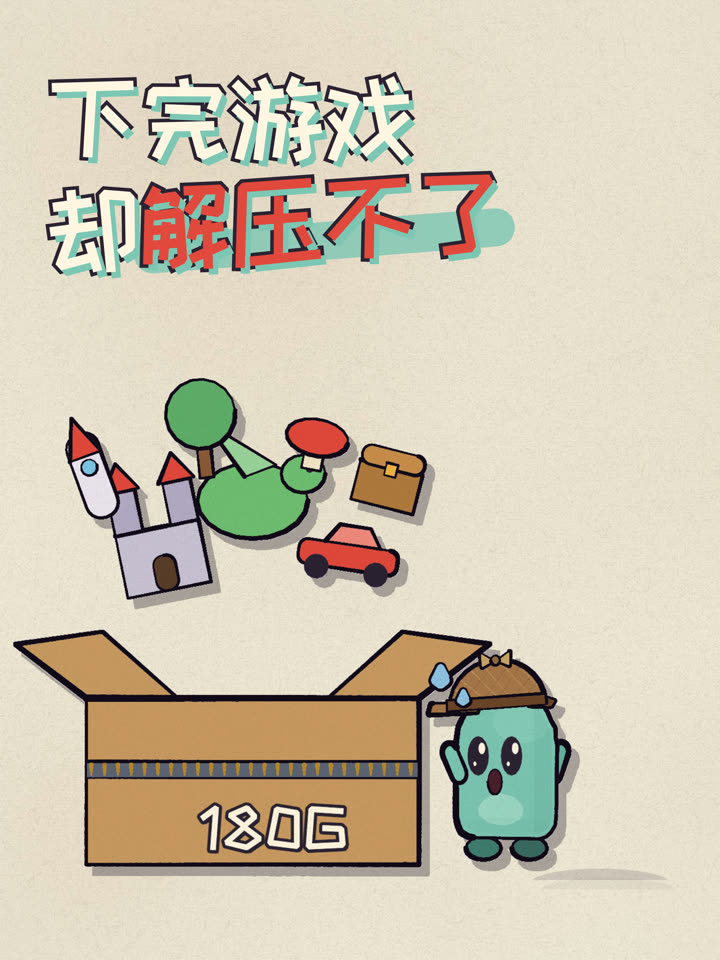
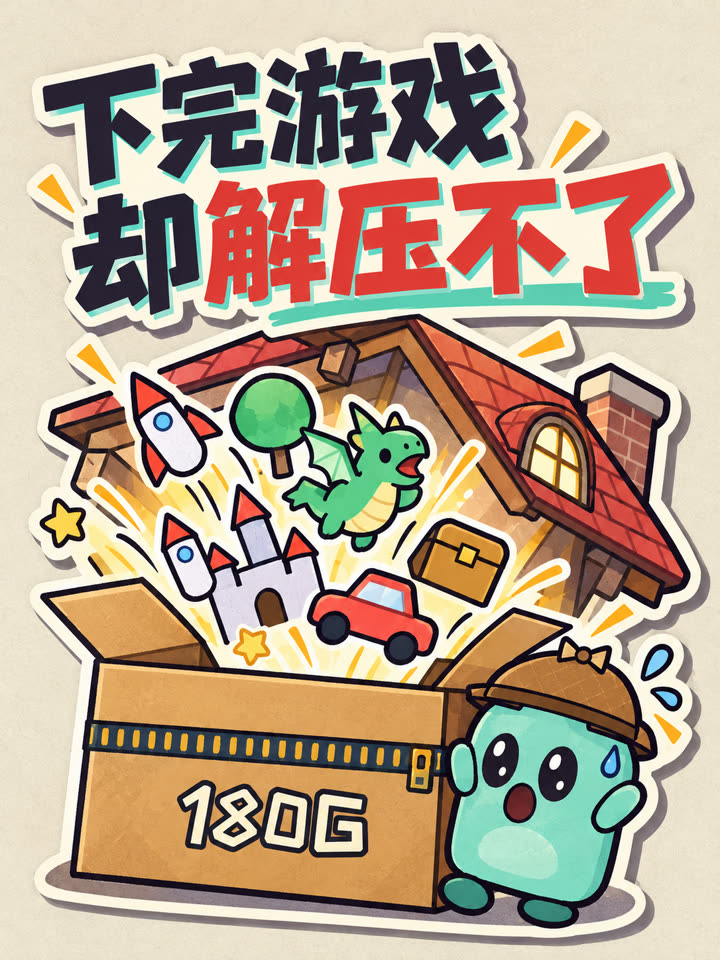
Homepage: imagegen covers, restrained type, less copy

diff --git a/public/style.css b/public/style.css
@@ -42,16 +42,15 @@ button { font: inherit; color: inherit; cursor: pointer; }
 .nav a:hover::after { transform: scaleX(1); }
 
 /* 首屏 */
-.hero { position: relative; max-width: var(--max); margin: 0 auto; padding: clamp(28px, 6vw, 72px) var(--gutter) clamp(36px, 6vw, 72px); }
-.eyebrow { margin: 0 0 clamp(8px, 2vw, 20px); font-size: 12px; color: var(--mute); }
-.hero-title { margin: 0; font: 700 clamp(96px, 22vw, 290px)/.88 var(--display); letter-spacing: -.03em; display: flex; flex-direction: column; align-items: flex-start; }
+.hero { position: relative; max-width: var(--max); margin: 0 auto; padding: clamp(48px, 9vw, 110px) var(--gutter) clamp(48px, 8vw, 96px); }
+.hero-title { margin: 0; font: 700 clamp(44px, 7vw, 84px)/1.05 var(--display); letter-spacing: -.01em; }
 .hero-title span { display: inline-block; }
 .hero-title mark { background: none; color: var(--red); position: relative; display: inline-block; }
-.hero-title mark::after { content: ""; position: absolute; left: -2%; right: -6%; bottom: .02em; height: .1em; background: var(--red); opacity: .25; transform: rotate(-2deg); border-radius: 2px; }
-.hero-row { display: grid; grid-template-columns: minmax(0, 1.1fr) minmax(0, 1fr); gap: 20px clamp(20px, 5vw, 80px); align-items: end; margin-top: clamp(20px, 4vw, 44px); position: relative; z-index: 2; }
-.hero-lede { margin: 0; font: 700 clamp(22px, 3.2vw, 38px)/1.3 var(--display); }
+.hero-title mark::after { content: ""; position: absolute; left: 0; right: 0; bottom: .06em; height: .09em; background: var(--red); opacity: .22; }
+.hero-row { display: flex; flex-wrap: wrap; align-items: center; gap: 16px 28px; margin-top: 18px; position: relative; z-index: 2; }
+.hero-lede { margin: 0; font-size: clamp(16px, 1.6vw, 19px); color: var(--mute); }
 .hero-links { display: flex; flex-wrap: wrap; gap: 10px; list-style: none; margin: 0; padding: 0; }
-.pill { display: inline-flex; align-items: center; gap: 8px; padding: 10px 20px; border: 1.5px solid var(--ink); border-radius: 999px; font-weight: 600; font-size: 15px; transition: background .2s, color .2s, transform .2s; }
+.pill { display: inline-flex; align-items: center; gap: 8px; padding: 7px 16px; border: 1.5px solid var(--ink); border-radius: 999px; font-weight: 600; font-size: 14px; transition: background .2s, color .2s, transform .2s; }
 .pill i { font-style: normal; transition: transform .2s; }
 .pill:hover { background: var(--ink); color: var(--paper); transform: translateY(-2px); }
 .pill:hover i { transform: translate(2px, -2px); }
@@ -59,34 +58,25 @@ button { font: inherit; color: inherit; cursor: pointer; }
 .pill-red:hover { background: var(--ink); border-color: var(--ink); }
 .pill-light { border-color: var(--paper); color: var(--paper); }
 .pill-light:hover { background: var(--paper); color: var(--ink); }
-.hero-count { grid-column: 1 / -1; margin: 0; font-size: 12px; color: var(--mute); min-height: 1.2em; }
-.mascot { position: absolute; right: var(--gutter); top: clamp(40px, 7vw, 100px); width: clamp(150px, 26vw, 360px); padding: 0; border: 0; background: none; z-index: 3; transition: transform .35s cubic-bezier(.3, 1.6, .5, 1); transform: translate(var(--px, 0), var(--py, 0)) rotate(var(--rot, 4deg)); }
+.mascot { position: absolute; right: var(--gutter); top: clamp(24px, 5vw, 64px); width: clamp(110px, 15vw, 190px); padding: 0; border: 0; background: none; z-index: 3; transition: transform .35s cubic-bezier(.3, 1.6, .5, 1); transform: translate(var(--px, 0), var(--py, 0)) rotate(var(--rot, 4deg)); }
 .mascot img { width: 100%; height: auto; filter: drop-shadow(0 8px 0 rgba(28, 27, 24, .06)); }
 .mascot.bounce { animation: bounce .5s; }
 @keyframes bounce { 40% { transform: translate(var(--px, 0), calc(var(--py, 0px) - 18px)) rotate(-4deg) scale(1.04); } }
 
-/* 跑马灯 */
-.ticker { background: var(--ink); color: var(--paper); overflow: hidden; border-block: 2px solid var(--ink); transform: rotate(-.6deg) scale(1.02); margin: 8px 0 clamp(36px, 7vw, 90px); }
-.ticker-track { display: flex; gap: 28px; width: max-content; padding: 12px 0; font: 700 clamp(18px, 2.4vw, 28px)/1 var(--display); white-space: nowrap; animation: slide 38s linear infinite; }
-.ticker-track b { color: var(--red); font-weight: 400; }
-@keyframes slide { to { transform: translateX(-50%); } }
 
 /* 通用区块 */
-.block { max-width: var(--max); margin: 0 auto; padding: 0 var(--gutter) clamp(56px, 9vw, 120px); }
-.block-head { display: grid; grid-template-columns: auto 1fr; align-items: baseline; gap: 4px 16px; margin-bottom: clamp(20px, 3vw, 36px); padding-bottom: 14px; border-bottom: 2px solid var(--ink); }
-.block-head h2, .contact h2 { margin: 0; font: 700 clamp(40px, 7vw, 84px)/1 var(--display); letter-spacing: -.02em; }
-.no { color: var(--red); font-size: 14px; }
-.block-note { grid-column: 2; margin: 0; color: var(--mute); font-size: 14px; max-width: 46ch; }
-
+.block { max-width: var(--max); margin: 0 auto; padding: 0 var(--gutter) clamp(48px, 7vw, 88px); }
+.block-head { display: flex; align-items: baseline; justify-content: space-between; margin-bottom: clamp(16px, 2.4vw, 28px); padding-bottom: 10px; border-bottom: 1.5px solid var(--ink); }
+.block-head h2, 
 /* 视频 */
 .videos { display: grid; grid-template-columns: repeat(4, minmax(0, 1fr)); gap: clamp(14px, 2vw, 28px); }
 .vcard { display: block; }
-.vcard-cover { position: relative; aspect-ratio: 3 / 4; border: 2px solid var(--ink); background: var(--paper-2); box-shadow: 5px 5px 0 var(--ink); overflow: hidden; transition: transform .25s, box-shadow .25s; }
+.vcard-cover { position: relative; aspect-ratio: 3 / 4; border-radius: 6px; background: var(--paper-2); box-shadow: 0 0 0 1.5px var(--ink); overflow: hidden; transition: transform .25s, box-shadow .25s; }
 .vcard-cover img { width: 100%; height: 100%; object-fit: cover; }
-.vcard:hover .vcard-cover { transform: translate(-3px, -3px); box-shadow: 8px 8px 0 var(--red); }
-.play { position: absolute; right: 12px; bottom: 12px; width: 44px; height: 44px; border-radius: 50%; background: var(--red); color: var(--paper); display: grid; place-items: center; font-size: 15px; padding-left: 3px; transition: transform .25s; }
+.vcard:hover .vcard-cover { transform: translateY(-4px); box-shadow: 0 0 0 1.5px var(--ink), 0 8px 0 var(--red); }
+.play { position: absolute; right: 10px; bottom: 10px; width: 34px; height: 34px; border-radius: 50%; background: var(--red); color: var(--paper); display: grid; place-items: center; font-size: 11px; padding-left: 2px; transition: transform .25s; }
 .vcard:hover .play { transform: scale(1.12) rotate(-6deg); }
-.vcard h3 { margin: 16px 0 4px; font: 700 clamp(18px, 1.8vw, 22px)/1.25 var(--display); }
+.vcard h3 { margin: 12px 0 0; font: 700 15px/1.4 var(--display); }
 .vcard p { margin: 0; color: var(--mute); font-size: 14px; line-height: 1.55; }
 .vcard time { display: block; margin-top: 8px; font-size: 12px; color: var(--mute); }
 
@@ -101,18 +91,16 @@ button { font: inherit; color: inherit; cursor: pointer; }
 .search input::placeholder { color: var(--mute); }
 .search input:focus { outline: none; border-color: var(--red); }
 .rows { list-style: none; margin: 0; padding: 0; }
-.row { position: relative; display: grid; grid-template-columns: 52px minmax(0, 1.4fr) minmax(0, 1fr) minmax(0, 1.2fr); gap: 8px 20px; align-items: start; padding: 20px 8px 20px 0; border-bottom: 1px solid var(--line); transition: padding .25s, background .25s; }
+.row { position: relative; display: grid; grid-template-columns: minmax(0, 1.5fr) minmax(0, .8fr) minmax(0, 1.2fr); gap: 6px 20px; align-items: baseline; padding: 14px 8px 14px 0; border-bottom: 1px solid var(--line); transition: padding .25s, background .25s; }
 .row::before { content: ""; position: absolute; left: 0; top: 0; bottom: 0; width: 4px; background: var(--red); transform: scaleY(0); transform-origin: top; transition: transform .25s; }
 .row:hover { padding-left: 16px; background: color-mix(in srgb, var(--paper-2) 60%, transparent); }
 .row:hover::before { transform: scaleY(1); }
-.row-no { font-size: 13px; color: var(--mute); padding-top: 8px; }
-.row-name { margin: 0; font: 700 clamp(22px, 2.4vw, 30px)/1.2 var(--display); word-break: break-word; }
+.row-name { margin: 0; font: 700 clamp(17px, 1.7vw, 20px)/1.3 var(--display); word-break: break-word; }
 .row-name a:hover { color: var(--red); }
-.row-desc { margin: 2px 0 0; color: var(--mute); font-size: 14px; }
-.row-tags { display: flex; flex-wrap: wrap; gap: 6px; padding-top: 6px; }
+.row-desc { margin: 0; color: var(--mute); font-size: 13px; }
+.row-tags { display: flex; flex-wrap: wrap; gap: 6px; }
 .tag { font-size: 12px; padding: 2px 10px; border: 1px solid var(--line); border-radius: 4px; color: var(--mute); }
-.row-date { width: 100%; font-size: 12px; color: var(--mute); margin-top: 4px; }
-.row-acts { display: flex; flex-direction: column; align-items: flex-start; gap: 6px; padding-top: 6px; font-size: 14px; }
+.row-acts { display: flex; flex-wrap: wrap; gap: 4px 16px; font-size: 13px; }
 .act { display: inline-flex; align-items: center; gap: 6px; border-bottom: 1.5px solid var(--ink); padding-bottom: 1px; font-weight: 600; transition: color .2s, border-color .2s; }
 .act:hover { color: var(--red); border-color: var(--red); }
 .act-dl { border-color: var(--red); color: var(--red); }
@@ -123,16 +111,16 @@ button { font: inherit; color: inherit; cursor: pointer; }
 
 /* 作品 */
 .works { display: grid; grid-template-columns: repeat(2, minmax(0, 1fr)); gap: clamp(14px, 2vw, 28px); }
-.wcard { position: relative; display: flex; flex-direction: column; justify-content: space-between; min-height: clamp(260px, 32vw, 420px); padding: clamp(20px, 3vw, 36px); border: 2px solid var(--ink); overflow: hidden; transition: transform .3s, box-shadow .3s; }
-.wcard:hover { transform: translate(-4px, -4px); box-shadow: 8px 8px 0 var(--ink); }
+.wcard { position: relative; display: flex; flex-direction: column; justify-content: space-between; min-height: clamp(150px, 16vw, 200px); padding: clamp(18px, 2.4vw, 28px); border-radius: 8px; overflow: hidden; transition: transform .3s; }
+.wcard:hover { transform: translateY(-4px); }
 .tone-red { background: var(--red); color: var(--paper); }
 .tone-ink { background: var(--ink); color: var(--paper); }
-.tone-paper { background: var(--paper-2); }
+.tone-paper { background: var(--paper-2); box-shadow: inset 0 0 0 1.5px var(--ink); }
 .tone-mint { background: var(--mint); }
 .wcard::before { content: ""; position: absolute; inset: 0; opacity: .16; pointer-events: none; background-image: radial-gradient(currentColor 1.4px, transparent 1.6px); background-size: 18px 18px; }
-.wcard h3 { position: relative; margin: 0; font: 700 clamp(56px, 9vw, 130px)/.9 var(--display); letter-spacing: -.03em; }
-.wcard p { position: relative; margin: 0; max-width: 28ch; font-size: 16px; }
-.wcard-go { position: absolute; top: clamp(16px, 2.4vw, 28px); right: clamp(16px, 2.4vw, 28px); width: 52px; height: 52px; border-radius: 50%; border: 2px solid currentColor; display: grid; place-items: center; font-size: 22px; transition: transform .3s, background .3s, color .3s; }
+.wcard h3 { position: relative; margin: 0; font: 700 clamp(26px, 3vw, 36px)/1.1 var(--display); }
+.wcard p { position: relative; margin: 0; font-size: 14px; opacity: .85; }
+.wcard-go { position: absolute; top: 18px; right: 18px; width: 36px; height: 36px; border-radius: 50%; border: 1.5px solid currentColor; display: grid; place-items: center; font-size: 16px; transition: transform .3s, background .3s, color .3s; }
 .wcard:hover .wcard-go { transform: rotate(45deg); background: var(--paper); color: var(--ink); }
 .archive { margin: 28px 0 0; font-size: 14px; color: var(--mute); }
 .archive b { font: 12px var(--mono); margin-right: 8px; color: var(--ink); font-weight: 400; }
@@ -140,19 +128,17 @@ button { font: inherit; color: inherit; cursor: pointer; }
 .archive a:hover { color: var(--red); border-color: var(--red); }
 
 /* 联系 */
-.contact { background: var(--ink); color: var(--paper); padding: clamp(56px, 9vw, 110px) 0 0; position: relative; }
-.contact-in { max-width: var(--max); margin: 0 auto; padding: 0 var(--gutter) clamp(48px, 7vw, 90px); display: grid; grid-template-columns: minmax(0, 1.2fr) minmax(0, .8fr); gap: clamp(28px, 6vw, 90px); align-items: center; }
-.contact h2 { font-size: clamp(56px, 10vw, 140px); margin: 6px 0 14px; }
-.contact-copy p { max-width: 40ch; color: color-mix(in srgb, var(--paper) 78%, transparent); }
-.wx { display: flex; flex-wrap: wrap; align-items: center; gap: 10px 14px; margin: 24px 0; padding: 14px 18px; border: 1.5px solid var(--paper); border-radius: 12px; width: fit-content; max-width: 100%; }
+.contact { background: var(--ink); color: var(--paper); padding: clamp(44px, 7vw, 80px) 0 0; position: relative; }
+.contact-in { max-width: var(--max); margin: 0 auto; padding: 0 var(--gutter) clamp(40px, 6vw, 72px); display: grid; grid-template-columns: minmax(0, 1fr) auto; gap: clamp(28px, 6vw, 80px); align-items: center; }
+.wx { display: flex; flex-wrap: wrap; align-items: center; gap: 10px 14px; margin: 18px 0 20px; padding: 10px 14px; border: 1.5px solid var(--paper); border-radius: 10px; width: fit-content; max-width: 100%; }
 .wx-label { font-size: 12px; opacity: .7; }
-.wx code { font: 700 clamp(18px, 2.6vw, 26px) var(--mono); letter-spacing: .02em; }
+.wx code { font: 700 18px var(--mono); }
 .copy { padding: 6px 16px; border: 0; border-radius: 999px; background: var(--red); color: var(--paper); font-weight: 600; font-size: 14px; transition: transform .2s; }
 .copy:hover { transform: scale(1.06); }
-.qr { position: relative; margin: 0; justify-self: center; width: min(100%, 340px); padding: 16px 16px 10px; background: var(--paper); color: var(--ink); border-radius: 6px; transform: rotate(2deg); box-shadow: 8px 8px 0 var(--red); }
+.qr { position: relative; margin: 0; width: 200px; padding: 10px; background: var(--paper); border-radius: 6px; }
 .qr > img:first-child { width: 100%; height: auto; mix-blend-mode: multiply; }
 .qr figcaption { text-align: center; font-size: 12px; color: var(--mute); padding-top: 4px; }
-.qr-mascot { position: absolute; left: -112px; bottom: -20px; width: 120px; height: auto; transform: rotate(-8deg); }
+.qr-mascot { position: absolute; left: -92px; bottom: -8px; width: 84px; height: auto; transform: rotate(-8deg); }
 .foot { display: flex; flex-wrap: wrap; justify-content: space-between; gap: 8px; max-width: var(--max); margin: 0 auto; padding: 18px var(--gutter) 28px; border-top: 1px solid rgba(239, 233, 220, .2); font-size: 12px; opacity: .7; }
 
 /* 出现动画 */
@@ -160,28 +146,21 @@ button { font: inherit; color: inherit; cursor: pointer; }
 .js .reveal.in { opacity: 1; transform: none; }
 
 @media (max-width: 900px) {
-  .videos { display: flex; overflow-x: auto; scroll-snap-type: x mandatory; gap: 16px; margin-inline: calc(var(--gutter) * -1); padding: 4px var(--gutter) 18px; scrollbar-width: none; }
+  .videos { display: flex; overflow-x: auto; scroll-snap-type: x mandatory; gap: 14px; margin-inline: calc(var(--gutter) * -1); padding: 4px var(--gutter) 14px; scrollbar-width: none; }
   .videos::-webkit-scrollbar { display: none; }
-  .vcard { flex: 0 0 66%; scroll-snap-align: start; }
-  .row { grid-template-columns: 36px minmax(0, 1fr); }
-  .row-tags, .row-acts { grid-column: 2; }
-  .row-acts { flex-direction: row; flex-wrap: wrap; gap: 8px 18px; }
+  .vcard { flex: 0 0 46%; scroll-snap-align: start; }
+  .row { grid-template-columns: minmax(0, 1fr); }
   .works { grid-template-columns: 1fr; }
   .contact-in { grid-template-columns: 1fr; }
-  .qr-mascot { left: auto; right: -12px; bottom: -36px; }
+  .qr-mascot { left: 220px; }
 }
 @media (max-width: 640px) {
   .nav { gap: 14px; font-size: 13px; }
-  .qr { transform: rotate(1deg); width: min(92%, 340px); }
-  .hero-row { grid-template-columns: 1fr; }
-  .mascot { top: auto; bottom: auto; position: relative; right: auto; width: 56%; margin: -10px 0 -20px auto; display: block; }
-  .block-head { grid-template-columns: 1fr; }
-  .block-note { grid-column: 1; }
-  .vcard { flex-basis: 74%; }
+  .mascot { width: 96px; top: 20px; }
+  .vcard { flex-basis: 62%; }
 }
 @media (prefers-reduced-motion: reduce) {
   html { scroll-behavior: auto; }
-  .ticker-track { animation: none; }
-  .js .reveal { opacity: 1; transform: none; transition: none; }
+    .js .reveal { opacity: 1; transform: none; transition: none; }
   * { transition-duration: .01ms !important; animation-duration: .01ms !important; }
 }

diff --git a/public/index.html b/public/index.html
@@ -29,43 +29,30 @@
 
   <main id="top">
     <section class="hero">
-      <p class="eyebrow mono">AI 做作品 / 开源项目推荐 / 给创作者</p>
-      <h1 class="hero-title"><span>代码</span><span>侦<mark>探</mark></span></h1>
+            <h1 class="hero-title">代码侦<mark>探</mark></h1>
       <div class="hero-row">
-        <p class="hero-lede">用 AI 做作品，<br>把值得用的开源项目<br>讲给创作者。</p>
+        <p class="hero-lede">用 AI 做作品，讲开源项目。</p>
         <ul class="hero-links" aria-label="社交媒体">
           <li><a class="pill" href="https://www.douyin.com/user/MS4wLjABAAAArWDxkCgxKLOPmi8kLilz-FXmDDy6KRQjK_DmpEfVcNB9J-UTGg9OnI2EzuH3CL-2" target="_blank" rel="noreferrer" data-social="douyin">抖音 <i>↗</i></a></li>
           <li><a class="pill" href="https://www.xiaohongshu.com/user/profile/6890d3e9000000002802480d" target="_blank" rel="noreferrer" data-social="xhs">小红书 <i>↗</i></a></li>
           <li><a class="pill pill-red" href="#contact">加微信 <i>→</i></a></li>
         </ul>
-        <p class="hero-count mono" id="count" aria-live="polite"></p>
       </div>
       <button class="mascot" id="mascot" type="button" aria-label="豆探，点一下换个动作">
         <img src="/img/doutan-0.png" alt="" width="720" height="600" data-poses="/img/doutan-0.png,/img/doutan-2.png,/img/doutan-3.png">
       </button>
     </section>
 
-    <div class="ticker" aria-hidden="true">
-      <div class="ticker-track">
-        <span>开源项目推荐</span><b>✺</b><span>看得见的成品</span><b>✺</b><span>创作者能直接用</span><b>✺</b><span>免费 · 开源</span><b>✺</b>
-        <span>开源项目推荐</span><b>✺</b><span>看得见的成品</span><b>✺</b><span>创作者能直接用</span><b>✺</b><span>免费 · 开源</span><b>✺</b>
-      </div>
-    </div>
-
     <section class="block" id="videos" aria-labelledby="h-videos">
       <header class="block-head">
-        <span class="no mono">01</span>
         <h2 id="h-videos">视频</h2>
-        <p class="block-note">近期反响最好的几条。想看更多，去抖音。</p>
       </header>
       <div class="videos" id="video-list"></div>
     </section>
 
     <section class="block" id="oss" aria-labelledby="h-oss">
       <header class="block-head">
-        <span class="no mono">02</span>
         <h2 id="h-oss">开源项目</h2>
-        <p class="block-note">讲过的、没讲的，都收在这里。点进去直接用，能下载的资源就在旁边。</p>
       </header>
       <div class="tools">
         <div class="chips" id="chips" role="group" aria-label="按类型筛选"></div>
@@ -77,9 +64,7 @@
 
     <section class="block" id="works" aria-labelledby="h-works">
       <header class="block-head">
-        <span class="no mono">03</span>
         <h2 id="h-works">作品</h2>
-        <p class="block-note">自己做的东西，都能直接玩。</p>
       </header>
       <div class="works" id="work-list"></div>
       <p class="archive" id="archive" hidden></p>
@@ -89,11 +74,9 @@
   <section class="contact" id="contact" aria-labelledby="h-contact">
     <div class="contact-in">
       <div class="contact-copy">
-        <span class="no mono">04</span>
-        <h2 id="h-contact">来聊聊</h2>
-        <p>合作、提问、推荐好玩的开源项目，都可以加微信。备注“主页”，我会更快看到。</p>
+        <h2 id="h-contact">联系</h2>
         <div class="wx">
-          <span class="mono wx-label">微信号</span>
+          <span class="mono wx-label">微信</span>
           <code id="wxid">b1uesweater</code>
           <button class="copy" id="copy" type="button">复制</button>
         </div>
@@ -104,11 +87,11 @@
       </div>
       <figure class="qr">
         <img src="/img/wechat-qr.png" alt="代码侦探的微信二维码，微信号 b1uesweater" width="540" height="540" loading="lazy">
-        <figcaption class="mono">微信扫一扫</figcaption>
+        
         <img class="qr-mascot" src="/img/doutan-2.png" alt="" width="240" height="200" loading="lazy">
       </figure>
     </div>
-    <footer class="foot mono"><span>© 2026 代码侦探</span><span>页面和豆探都是用 AI 做的</span></footer>
+    <footer class="foot mono"><span>© 2026 代码侦探</span></footer>
   </section>
 
   <script src="/app.js?v=1" defer></script>

diff --git a/public/app.js b/public/app.js
@@ -23,7 +23,7 @@ function renderVideos(list) {
   $('#video-list').innerHTML = list.map(v => `
     <a class="vcard reveal in" href="${esc(v.url)}" target="_blank" rel="noreferrer" data-go="${v.id}:url">
       <div class="vcard-cover">${v.cover ? `<img src="/u/${esc(v.cover)}" alt="" loading="lazy">` : ''}<span class="play" aria-hidden="true">▶</span></div>
-      <h3>${esc(v.title)}</h3>${v.desc ? `<p>${esc(v.desc)}</p>` : ''}${v.date ? `<time class="mono" datetime="${esc(v.date)}">${fmtDate(v.date)}</time>` : ''}
+      <h3>${esc(v.title)}</h3>
     </a>`).join('');
 }
 
@@ -42,8 +42,7 @@ function renderOss() {
     const files = (it.files || []).map(f => `<a class="act act-dl" href="/d/${f.id}" download>↓ ${esc(f.name)} <small>${fmtSize(f.size)}</small></a>`).join('');
     const title = it.url ? `<a href="${esc(it.url)}" target="_blank" rel="noreferrer" data-go="${it.id}:url">${esc(it.title)}</a>` : esc(it.title);
     return `<li class="row reveal in">
-      <span class="row-no mono">${String(list.indexOf(it) + 1).padStart(2, '0')}</span>
-      <div><h3 class="row-name">${title}</h3><p class="row-desc">${esc(it.desc)}</p>${it.date ? `<span class="row-date mono">${fmtDate(it.date)}</span>` : ''}</div>
+      <div><h3 class="row-name">${title}</h3><p class="row-desc">${esc(it.desc)}</p></div>
       <div class="row-tags">${tagsOf(it).map(t => `<span class="tag">${esc(t)}</span>`).join('')}</div>
       <div class="row-acts">${ext(it.url, it.id, 'url', it.url.includes('github.com') ? 'GitHub ↗' : '打开项目 ↗')}${ext(it.demo, it.id, 'demo', '在线体验 ↗')}${ext(it.video, it.id, 'video', '看讲解视频 ▶')}${files}</div>
     </li>`;
@@ -51,13 +50,13 @@ function renderOss() {
   const more = $('#more');
   const hidden = list.length - shown.length;
   more.hidden = hidden <= 0;
-  more.textContent = `展开全部 ${list.length} 个项目 ↓`;
+  more.textContent = `展开全部 ${list.length} 个 ↓`;
 }
 
 function renderWorks(list) {
   $('#work-list').innerHTML = list.map((w, i) => `
     <a class="wcard tone-${esc(w.tone || (i % 2 ? 'ink' : 'red'))} reveal" href="${esc(w.url)}" target="_blank" rel="noreferrer" data-go="${w.id}:url">
-      <span class="wcard-go" aria-hidden="true">→</span><h3>${esc(w.title)}</h3><p>${esc(w.desc)}</p>
+      <span class="wcard-go" aria-hidden="true">→</span><h3>${esc(w.title)}</h3>${w.desc ? `<p>${esc(w.desc)}</p>` : ''}
     </a>`).join('');
   if (!list.length) $('#works').hidden = true;
 }
@@ -80,7 +79,6 @@ fetch('/api/content').then(r => r.json()).then(({ items }) => {
   const by = k => items.filter(i => i.kind === k);
   const videos = by('video').filter(v => v.url);
   oss = by('oss');
-  $('#count').textContent = `${oss.length} 个开源项目 · ${videos.length} 条精选视频 · ${items.reduce((n, i) => n + (i.files || []).length, 0)} 份可下载资源`;
   renderVideos(videos); renderChips(); renderOss(); renderWorks(by('work')); renderArchive(by('archive'));
   observeReveals();
 }).catch(() => { $('#oss-list').innerHTML = '<li class="empty">内容加载失败，刷新试试。</li>'; });
